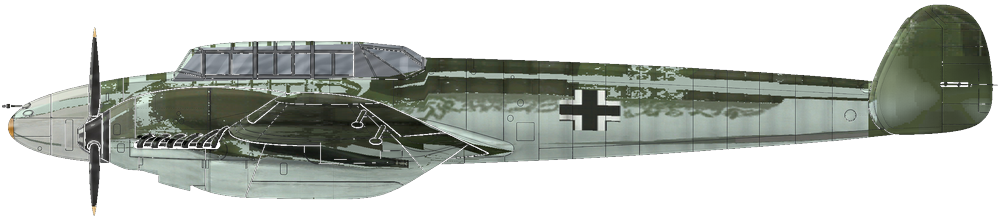
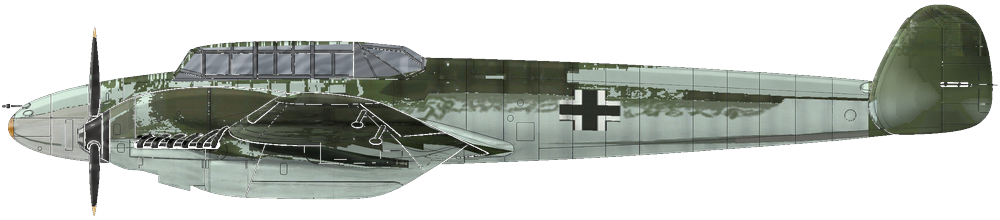
Bf 110: the Geschwader code at the game's own height, and a clean spine
Me110_Geshwader_Code.ms scales its 2:1 tile 0.08 by 0.042; the measurer
read 0.08 both ways, so the code stood twice the height of the letters
aft of the cross. The shoulder above the fuselage side face now carries
the side's own top edge instead of sampling the island above it.

Claude-Session: https://claude.ai/code/session_01BAE9xGb5t5aTKcprx9FbY2

Changed region(s): [[0.093, 0.2727, 0.868, 0.4364], [0.186, 0.1909, 0.372, 0.2727], [0.062, 0.4364, 0.093, 0.4636]]

diff --git a/dev/measure_markings.py b/dev/measure_markings.py
@@ -578,9 +578,12 @@ def main():
     # letter twice as far aft as it belongs.
     K110 = 2048.0 / 4048.0
     MS110 = {
-        'code':       (2474, 3200, 0.080),   # Me110_Geshwader_Code.ms
-        'individual': (3025, 3196, 0.043),   # Me110_Aircraft_Code.ms
-        'staffel':    (3175, 3196, 0.043),   # Me110_Staffel_Code.ms
+        # x, y, scale x, scale y. The Geschwader code is a 2:1 tile and the
+        # game scales it 0.08 by 0.042; read as 0.08 both ways it stood twice
+        # the height of the letters aft of the cross and hung below the belly.
+        'code':       (2474, 3200, 0.080, 0.042),   # Me110_Geshwader_Code.ms
+        'individual': (3025, 3196, 0.043, 0.043),   # Me110_Aircraft_Code.ms
+        'staffel':    (3175, 3196, 0.043, 0.043),   # Me110_Staffel_Code.ms
     }
     ref110 = os.path.join(a.tex, 'Bf110_70_71_1940.png')
     if os.path.exists(ref110):
@@ -621,10 +624,9 @@ def main():
                     print('  ? %s: no Balkenkreuz found, skipped' % f, file=sys.stderr)
                     continue
                 rec = {'marking': list(pc), 'size': [W, H]}
-                for k, (x, y, sx) in MS110.items():
-                    ms = (4048, 4048, sx, sx, x, y)
+                for k, (x, y, sx, sy) in MS110.items():
                     # convert() works in the SHEET's pixels, so scale first
-                    ms = (int(4048 * K110), int(4048 * K110), sx, sx,
+                    ms = (int(4048 * K110), int(4048 * K110), sx, sy,
                           int(round(x * K110)), int(round(y * K110)))
                     rec[k] = convert(ms, sk, pc, (W, H))
                 out['lw']['profiles110'][f] = rec

diff --git a/dev/build_lw_sideviews110.py b/dev/build_lw_sideviews110.py
@@ -160,7 +160,11 @@ def build(skin, out, blank):
     v = np.clip((YY - top) / np.maximum(bot - top, 1), 0, 1)
     xt = T_NOSE + (XX - X_NOSE) / SCALE_X
     low = t_low(xt)
-    yt = np.where(v < V_SIDE0, (T_SIDE_TOP - T_DECK) + v / V_SIDE0 * T_DECK,
+    # The shoulder above the side face carries the side's own top edge up to
+    # the spine (mirrored a few texels), NOT the sheet above y 793: that is
+    # a different island, and sampling it drew pale streaks along the spine
+    # of every pale skin.
+    yt = np.where(v < V_SIDE0, T_SIDE_TOP + (V_SIDE0 - v) / V_SIDE0 * 8.0,
          np.where(v < V_SIDE1, T_SIDE_TOP + (v - V_SIDE0) / (V_SIDE1 - V_SIDE0) * (low - T_SIDE_TOP),
                   low + (v - V_SIDE1) / (1 - V_SIDE1) * T_DECK))
 
